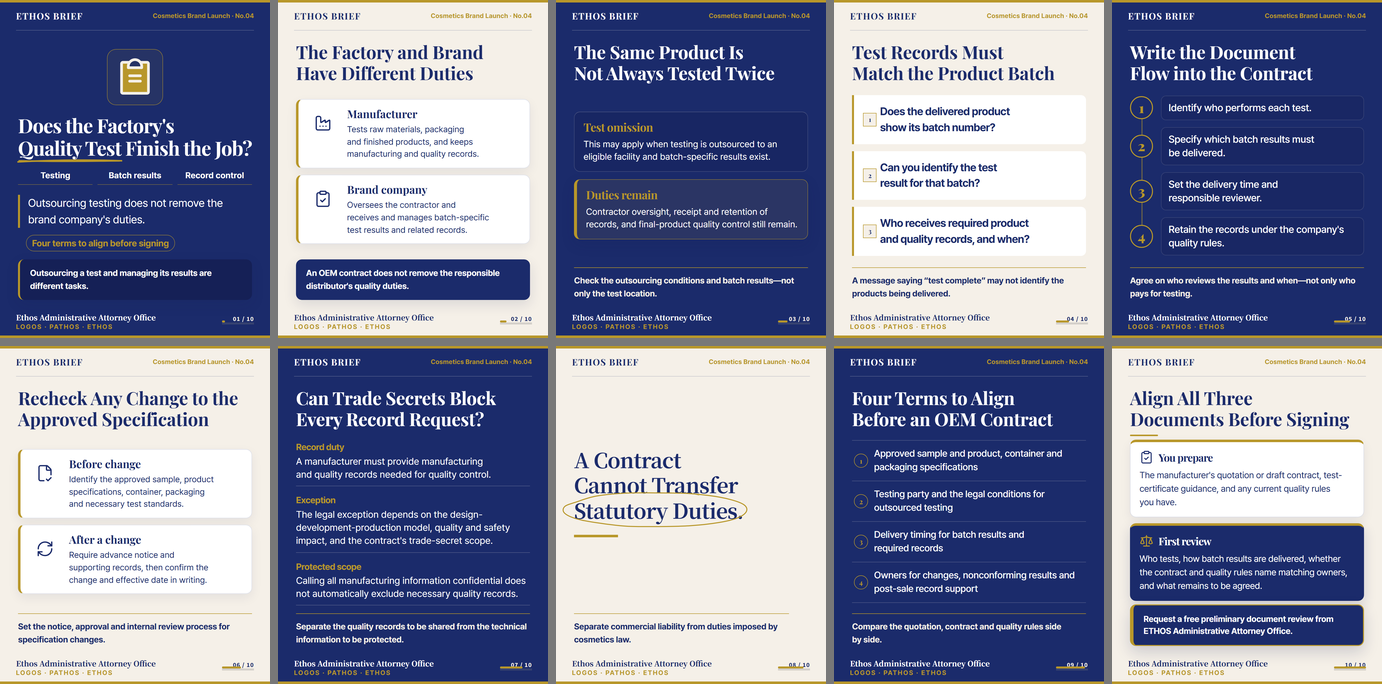
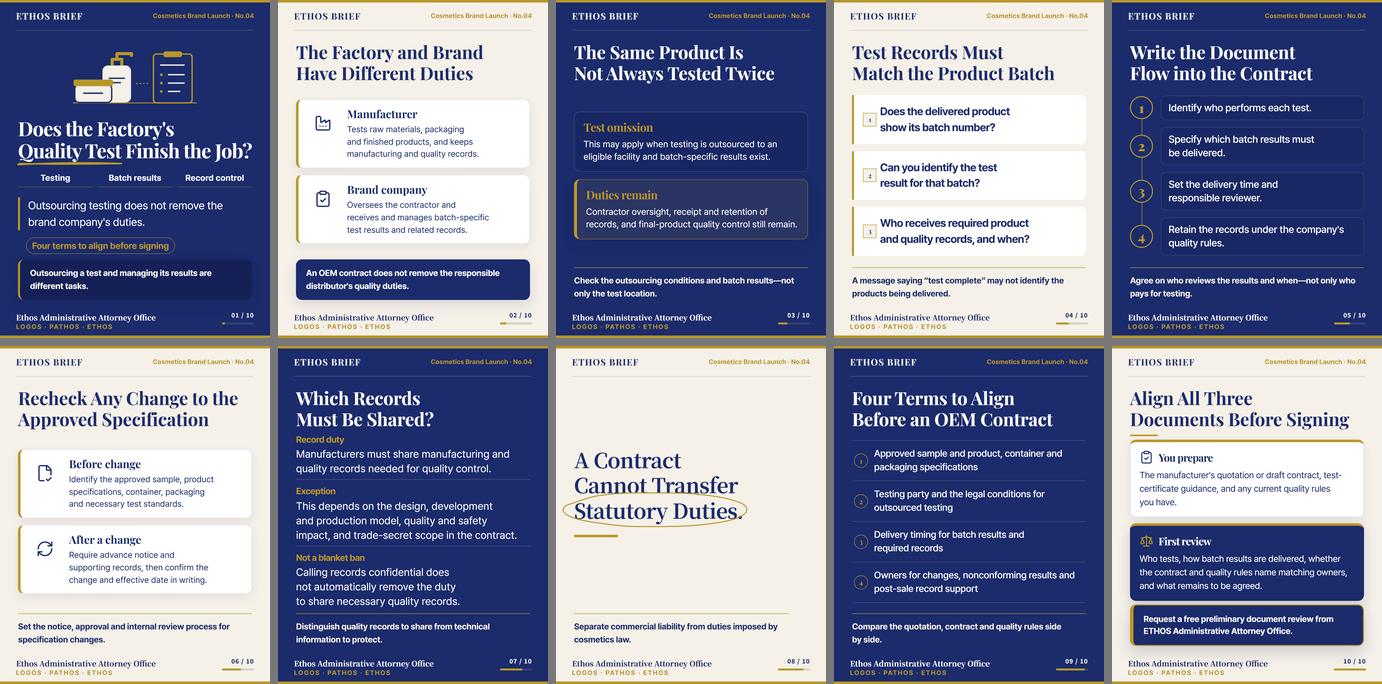
fix(cards): separate progress footer and refine OEM cover and English copy

diff --git a/content/COSMETICS-OEM-04/en/card_01.html b/content/COSMETICS-OEM-04/en/card_01.html
@@ -14,7 +14,22 @@
   <div class="hl" data-frame="line"></div>
   <div class="body">
     <div class="z-title" data-zone="title"></div>
-    <div class="z-main" data-zone="main"><div class="cvb-top"><div class="cvb-obj" data-decor data-focal><svg class="obj" data-asset="phosphor/clipboard-text" aria-hidden="true" focusable="false" xmlns="http://www.w3.org/2000/svg" viewBox="0 0 256 256" fill="currentColor"><path d="M208,48V216a8,8,0,0,1-8,8H56a8,8,0,0,1-8-8V48a8,8,0,0,1,8-8H96a39.83,39.83,0,0,0-8,24v8h80V64a39.83,39.83,0,0,0-8-24h40A8,8,0,0,1,208,48Z" style="fill:var(--obj-fill, var(--ethos-gold))"/><path d="M168,152a8,8,0,0,1-8,8H96a8,8,0,0,1,0-16h64A8,8,0,0,1,168,152Zm-8-40H96a8,8,0,0,0,0,16h64a8,8,0,0,0,0-16Zm56-64V216a16,16,0,0,1-16,16H56a16,16,0,0,1-16-16V48A16,16,0,0,1,56,32H92.26a47.92,47.92,0,0,1,71.48,0H200A16,16,0,0,1,216,48ZM96,64h64a32,32,0,0,0-64,0ZM200,48H173.25A47.93,47.93,0,0,1,176,64v8a8,8,0,0,1-8,8H88a8,8,0,0,1-8-8V64a47.93,47.93,0,0,1,2.75-16H56V216H200Z"/></svg></div></div><p class="cv-title cvb-title" data-role="headline">Does the Factory&#x27;s <span data-annotate="underline">Quality Test</span> Finish the Job?</p><div class="cvb-paths"><span>Testing</span><span>Batch results</span><span>Record control</span></div><div class="cv-wrap cvb-wrap"><p class="cv-lede">Outsourcing testing does not remove the brand company&#x27;s duties.</p><p class="cv-promise" data-role="label">Four terms to align before signing</p></div></div>
+    <div class="z-main" data-zone="main"><div class="cvb-top"><div class="cvb-obj" data-decor data-focal><svg xmlns="http://www.w3.org/2000/svg" viewBox="0 0 330 140" fill="none" data-asset="ethos/cosmetics-oem" aria-hidden="true">
+  <path d="M24 128H306" stroke="var(--ethos-gold)" stroke-width="2"/>
+  <rect x="91" y="43" width="65" height="84" rx="12" fill="var(--ethos-cream)"/>
+  <path d="M113 43V29H135V43M124 29V16H157V23" stroke="var(--ethos-gold)" stroke-width="7" stroke-linejoin="round"/>
+  <path d="M105 72H142M105 82H133" stroke="var(--ethos-navy)" stroke-width="3"/>
+  <rect x="28" y="86" width="84" height="41" rx="10" fill="var(--ethos-cream)" stroke="var(--ethos-navy)" stroke-width="3"/>
+  <rect x="25" y="75" width="90" height="15" rx="4" fill="var(--ethos-gold)"/>
+  <path d="M47 106H92" stroke="var(--ethos-navy)" stroke-width="3"/>
+  <path d="M167 84H197" stroke="var(--ethos-gold)" stroke-width="2" stroke-dasharray="4 4"/>
+  <rect x="207" y="17" width="88" height="111" rx="7" stroke="var(--ethos-gold)" stroke-width="3"/>
+  <rect x="230" y="11" width="42" height="13" rx="4" fill="var(--ethos-gold)"/>
+  <path d="M222 42H278M240 64H278M240 83H278M240 102H268" stroke="var(--ethos-cream)" stroke-width="3"/>
+  <circle cx="225" cy="64" r="3" fill="var(--ethos-gold)"/>
+  <circle cx="225" cy="83" r="3" fill="var(--ethos-gold)"/>
+  <circle cx="225" cy="102" r="3" fill="var(--ethos-gold)"/>
+</svg></div></div><p class="cv-title cvb-title" data-role="headline">Does the Factory&#x27;s <span data-annotate="underline">Quality Test</span> Finish the Job?</p><div class="cvb-paths"><span>Testing</span><span>Batch results</span><span>Record control</span></div><div class="cv-wrap cvb-wrap"><p class="cv-lede">Outsourcing testing does not remove the brand company&#x27;s duties.</p><p class="cv-promise" data-role="label">Four terms to align before signing</p></div></div>
     <div class="z-take" data-zone="take"><div class="take" data-role="takeaway">Outsourcing a test and managing its results are different tasks.</div></div>
   </div>
   <div class="ftr"><div class="org" data-frame="org">Ethos Administrative Attorney Office</div><div class="tagl" data-frame="tagline">LOGOS · PATHOS · ETHOS</div><div class="pg" data-frame="page" aria-hidden="true" data-progress="01 / 10"></div></div>

diff --git a/content/COSMETICS-OEM-04/ko/card_01.html b/content/COSMETICS-OEM-04/ko/card_01.html
@@ -14,7 +14,22 @@
   <div class="hl" data-frame="line"></div>
   <div class="body">
     <div class="z-title" data-zone="title"></div>
-    <div class="z-main" data-zone="main"><div class="cvb-top"><div class="cvb-obj" data-decor data-focal><svg class="obj" data-asset="phosphor/clipboard-text" aria-hidden="true" focusable="false" xmlns="http://www.w3.org/2000/svg" viewBox="0 0 256 256" fill="currentColor"><path d="M208,48V216a8,8,0,0,1-8,8H56a8,8,0,0,1-8-8V48a8,8,0,0,1,8-8H96a39.83,39.83,0,0,0-8,24v8h80V64a39.83,39.83,0,0,0-8-24h40A8,8,0,0,1,208,48Z" style="fill:var(--obj-fill, var(--ethos-gold))"/><path d="M168,152a8,8,0,0,1-8,8H96a8,8,0,0,1,0-16h64A8,8,0,0,1,168,152Zm-8-40H96a8,8,0,0,0,0,16h64a8,8,0,0,0,0-16Zm56-64V216a16,16,0,0,1-16,16H56a16,16,0,0,1-16-16V48A16,16,0,0,1,56,32H92.26a47.92,47.92,0,0,1,71.48,0H200A16,16,0,0,1,216,48ZM96,64h64a32,32,0,0,0-64,0ZM200,48H173.25A47.93,47.93,0,0,1,176,64v8a8,8,0,0,1-8,8H88a8,8,0,0,1-8-8V64a47.93,47.93,0,0,1,2.75-16H56V216H200Z"/></svg></div></div><p class="cv-title cvb-title" data-role="headline">공장이 <span data-annotate="underline">품질검사까지</span> 하면 끝일까요?</p><div class="cvb-paths"><span>검사</span><span>제조번호</span><span>기록 관리</span></div><div class="cv-wrap cvb-wrap"><p class="cv-lede">검사를 맡겨도 브랜드 회사에 남는 일을 확인합니다.</p><p class="cv-promise" data-role="label">계약 전에 맞출 네 가지</p></div></div>
+    <div class="z-main" data-zone="main"><div class="cvb-top"><div class="cvb-obj" data-decor data-focal><svg xmlns="http://www.w3.org/2000/svg" viewBox="0 0 330 140" fill="none" data-asset="ethos/cosmetics-oem" aria-hidden="true">
+  <path d="M24 128H306" stroke="var(--ethos-gold)" stroke-width="2"/>
+  <rect x="91" y="43" width="65" height="84" rx="12" fill="var(--ethos-cream)"/>
+  <path d="M113 43V29H135V43M124 29V16H157V23" stroke="var(--ethos-gold)" stroke-width="7" stroke-linejoin="round"/>
+  <path d="M105 72H142M105 82H133" stroke="var(--ethos-navy)" stroke-width="3"/>
+  <rect x="28" y="86" width="84" height="41" rx="10" fill="var(--ethos-cream)" stroke="var(--ethos-navy)" stroke-width="3"/>
+  <rect x="25" y="75" width="90" height="15" rx="4" fill="var(--ethos-gold)"/>
+  <path d="M47 106H92" stroke="var(--ethos-navy)" stroke-width="3"/>
+  <path d="M167 84H197" stroke="var(--ethos-gold)" stroke-width="2" stroke-dasharray="4 4"/>
+  <rect x="207" y="17" width="88" height="111" rx="7" stroke="var(--ethos-gold)" stroke-width="3"/>
+  <rect x="230" y="11" width="42" height="13" rx="4" fill="var(--ethos-gold)"/>
+  <path d="M222 42H278M240 64H278M240 83H278M240 102H268" stroke="var(--ethos-cream)" stroke-width="3"/>
+  <circle cx="225" cy="64" r="3" fill="var(--ethos-gold)"/>
+  <circle cx="225" cy="83" r="3" fill="var(--ethos-gold)"/>
+  <circle cx="225" cy="102" r="3" fill="var(--ethos-gold)"/>
+</svg></div></div><p class="cv-title cvb-title" data-role="headline">공장이 <span data-annotate="underline">품질검사까지</span> 하면 끝일까요?</p><div class="cvb-paths"><span>검사</span><span>제조번호</span><span>기록 관리</span></div><div class="cv-wrap cvb-wrap"><p class="cv-lede">검사를 맡겨도 브랜드 회사에 남는 일을 확인합니다.</p><p class="cv-promise" data-role="label">계약 전에 맞출 네 가지</p></div></div>
     <div class="z-take" data-zone="take"><div class="take" data-role="takeaway">검사를 맡기는 일과 검사결과를 받아 관리하는 일은 다릅니다.</div></div>
   </div>
   <div class="ftr"><div class="org" data-frame="org">에토스 행정사사무소</div><div class="tagl" data-frame="tagline">LOGOS · PATHOS · ETHOS</div><div class="pg" data-frame="page" aria-hidden="true" data-progress="01 / 10"></div></div>

diff --git a/content/COSMETICS-OEM-04/design.css b/content/COSMETICS-OEM-04/design.css
@@ -7,7 +7,7 @@
 
 /* 표지: 문서 일러스트를 장식이 아니라 첫 시선으로 사용한다. */
 .free[data-card-type="cover"] .cvb-top { justify-content:center; margin:0 0 2px; }
-.free[data-card-type="cover"] .cvb-obj { width:124px; height:124px; padding:12px; border:1px solid rgba(var(--ethos-gold-rgb),.7); border-radius:var(--radius-card); background:rgba(var(--ethos-gold-rgb),.08); }
+.free[data-card-type="cover"] .cvb-obj { width:310px; height:132px; padding:0; border:0; border-radius:0; background:transparent; }
 .free[data-card-type="cover"] .cvb-title { max-width:470px; font-size:45px; line-height:1.16; }
 .free[data-card-type="cover"] .cvb-paths { margin-top:15px; }
 .free[data-card-type="cover"] .cvb-paths span { padding:8px 4px; font-size:17px; border:0; border-bottom:1px solid rgba(var(--ethos-gold-rgb),.55); border-radius:0; background:transparent; }
@@ -40,7 +40,7 @@
 
 /* 영문은 길이가 늘어나는 만큼 표지와 패널을 조금 압축한다. */
 .free.lang-en[data-card-type="cover"] .cvb-title { font-size:39px; line-height:1.14; }
-.free.lang-en[data-card-type="cover"] .cvb-obj { width:112px; height:112px; }
+.free.lang-en[data-card-type="cover"] .cvb-obj { width:290px; height:123px; }
 .free.lang-en[data-card-type="comparison"] .ico-row { padding:15px 17px; }
 
 /* 3장: 조건과 남는 의무를 세로로 대비한다. 긴 법률 문장은 좁은 2열에 넣지 않는다. */
@@ -86,7 +86,8 @@
 /* 넓은 단일 열에서는 영단어를 임의로 분철하지 않는다. 원래의 복합어 하이픈은 보존한다. */
 .card.free.lang-en :is(.z-main,.body-text,.tier-copy,.step-t,.split-t,.doc-t,.bound-t,.take,.close,.cv-lede) { hyphens:none; overflow-wrap:normal; }
 /* 영문 7장: 상자의 안쪽 여백을 읽기 폭으로 돌려주고 본문을 키운다. 카피는 보존. */
-.free.lang-en[data-page="7"] .krows { gap:8px; }
-.free.lang-en[data-page="7"] .krow { padding:9px 0; border:0; border-bottom:1px solid rgba(245,240,232,.24); border-radius:0; background:transparent; box-shadow:none; }
+.free.lang-en[data-page="7"] .krows { gap:6px; }
+.free.lang-en[data-page="7"] .krow { padding:6px 0; border:0; border-bottom:1px solid rgba(245,240,232,.24); border-radius:0; background:transparent; box-shadow:none; }
 .free.lang-en[data-page="7"] .krow-k { font-family:"Pretendard","ETHOS Sans"; font-size:18px; line-height:1.25; font-weight:700; }
-.free.lang-en[data-page="7"] .krow-t { font-size:19px; line-height:1.38; }
+.free.lang-en[data-page="7"] .krow-t { font-size:21px; line-height:1.38; }
+.free.lang-en[data-page="7"] .krow:last-child { border-bottom:0; }

diff --git a/content/COSMETICS-OEM-04/en/card_07.html b/content/COSMETICS-OEM-04/en/card_07.html
@@ -13,9 +13,9 @@
   <div class="hdr"><span class="wm" data-frame="wordmark">ETHOS BRIEF</span><span class="sec" data-frame="section">Cosmetics Brand Launch · No.04</span></div>
   <div class="hl" data-frame="line"></div>
   <div class="body">
-    <div class="z-title" data-zone="title"><h2 class="h2" data-role="headline">Can Trade Secrets Block Every Record Request?</h2></div>
-    <div class="z-main" data-zone="main"><div class="krows stack" data-focal><div class="krow"><div class="krow-k">Record duty</div><div class="krow-t">A manufacturer must provide manufacturing and quality records needed for quality control.</div></div><div class="krow"><div class="krow-k">Exception</div><div class="krow-t">The legal exception depends on the design-development-production model, quality and safety impact, and the contract&#x27;s trade-secret scope.</div></div><div class="krow"><div class="krow-k">Protected scope</div><div class="krow-t">Calling all manufacturing information confidential does not automatically exclude necessary quality records.</div></div></div></div>
-    <div class="z-take" data-zone="take"><div class="close" data-role="takeaway">Separate the quality records to be shared from the technical information to be protected.</div></div>
+    <div class="z-title" data-zone="title"><h2 class="h2" data-role="headline">Which Records Must Be Shared?</h2></div>
+    <div class="z-main" data-zone="main"><div class="krows stack" data-focal><div class="krow"><div class="krow-k">Record duty</div><div class="krow-t">Manufacturers must share manufacturing and quality records needed for quality control.</div></div><div class="krow"><div class="krow-k">Exception</div><div class="krow-t">This depends on the design, development and production model, quality and safety impact, and trade-secret scope in the contract.</div></div><div class="krow"><div class="krow-k">Not a blanket ban</div><div class="krow-t">Calling records confidential does not automatically remove the duty to share necessary quality records.</div></div></div></div>
+    <div class="z-take" data-zone="take"><div class="close" data-role="takeaway">Distinguish quality records to share from technical information to protect.</div></div>
   </div>
   <div class="ftr"><div class="org" data-frame="org">Ethos Administrative Attorney Office</div><div class="tagl" data-frame="tagline">LOGOS · PATHOS · ETHOS</div><div class="pg" data-frame="page" aria-hidden="true" data-progress="07 / 10"></div></div>
   <div class="gold-bottom" data-frame="gold-bottom"></div>

diff --git a/templates/base.css b/templates/base.css
@@ -70,8 +70,8 @@ body { background:transparent; }
 .family-social-native .take { box-shadow:0 9px 26px rgba(21,32,86,.12); }
 
 /* ---- 넘김 표시: 페이지 칸(.pg) 안에 진행 막대와 "03 / 10". 칸 자체의 위치·크기는 그대로 둔다 ---- */
-.pg[data-progress] { opacity:1; box-sizing:border-box; border-bottom:4px solid rgba(127,127,127,.28); }
-.pg[data-progress]::before { content:attr(data-progress); position:absolute; right:0; top:-14px; font-family:"ETHOS Sans"; font-weight:700; font-size:11px; letter-spacing:1px; line-height:12px; white-space:nowrap; }
+.pg[data-progress] { opacity:1; box-sizing:border-box; height:4px; border:0; border-radius:2px; background:rgba(127,127,127,.28); }
+.pg[data-progress]::before { content:attr(data-progress); position:absolute; right:0; top:-22px; font-family:"ETHOS Sans"; font-weight:700; font-size:12px; letter-spacing:1px; line-height:14px; white-space:nowrap; }
 .navy .pg[data-progress]::before { color:#F5F0E8; }
 .cream .pg[data-progress]::before { color:var(--ethos-navy); }
 .pg[data-progress]::after { content:""; position:absolute; left:0; bottom:0; width:var(--progress, 0%); height:4px; border-radius:2px; background:var(--ethos-gold); }

diff --git a/tests/test_layout_balance.py b/tests/test_layout_balance.py
@@ -63,7 +63,37 @@ class LayoutBalanceTests(unittest.TestCase):
             sizes = page.locator('.krow-t').evaluate_all(
                 '(nodes) => nodes.map(n => parseFloat(getComputedStyle(n).fontSize))')
             self.assertEqual(len(sizes), 3)
-            self.assertTrue(all(size >= 19 for size in sizes), sizes)
+            self.assertTrue(all(size >= 21 for size in sizes), sizes)
             self.assertTrue(main.evaluate('(n) => n.scrollHeight <= n.clientHeight + 1'))
+        finally:
+            page.close()
+
+    def test_oem_footer_number_and_progress_have_separate_rows(self):
+        root = pathlib.Path(__file__).resolve().parents[1]
+        page = self.browser.new_page()
+        try:
+            for lang in ('ko', 'en'):
+                for number in range(1, 11):
+                    with self.subTest(lang=lang, page=number):
+                        page.goto((root / f'content/COSMETICS-OEM-04/{lang}/card_{number:02d}.html').as_uri())
+                        page.evaluate('document.fonts.ready')
+                        values = page.locator('.pg[data-progress]').evaluate('''n => {
+                            const track = n.getBoundingClientRect();
+                            const label = getComputedStyle(n, '::before');
+                            const fill = getComputedStyle(n, '::after');
+                            return {
+                                gap: -(parseFloat(label.top) + parseFloat(label.lineHeight)),
+                                height: track.height,
+                                fillHeight: parseFloat(fill.height),
+                                fillBottom: parseFloat(fill.bottom),
+                                fraction: parseFloat(fill.width) / track.width,
+                                content: label.content
+                            };
+                        }''')
+                        self.assertGreaterEqual(values['gap'], 8)
+                        self.assertEqual(values['height'], values['fillHeight'])
+                        self.assertEqual(values['fillBottom'], 0)
+                        self.assertAlmostEqual(values['fraction'], number / 10, places=2)
+                        self.assertIn(f'{number:02d} / 10', values['content'])
         finally:
             page.close()

diff --git a/tests/test_auto_design.py b/tests/test_auto_design.py
@@ -49,6 +49,24 @@ class AutoDesignTest(unittest.TestCase):
     def test_cover_uses_object_art_when_available(self):
         cover = {"page": 1, "type": "cover", "bg": "navy", "headline": "h", "body": ["b"], "art": ["gavel"], "takeaway": "t"}
         self.assertIn("phosphor/gavel", auto_design.build(cover, data([cover])))
+        cover['art'] = ['cosmetics-oem']
+        for language in ('ko', 'en'):
+            html = auto_design.build(cover, data([cover], language))
+            self.assertIn('data-asset="ethos/cosmetics-oem"', html)
+            self.assertEqual(copy_lint.copy_lock(cover, html), [])
+
+    def test_original_cover_asset_requires_its_real_provenance(self):
+        import tempfile
+        cover = {"page": 1, "type": "cover", "art": ["cosmetics-oem"]}
+        with tempfile.TemporaryDirectory() as directory:
+            folder = pathlib.Path(directory)
+            report = copy_lint.Report()
+            copy_lint.lint_assets(folder, {'ko': data([cover])}, report)
+            self.assertTrue(report.findings)
+            (folder / 'assets.md').write_text('assets/illustrations/objects/cosmetics-oem.svg', encoding='utf-8')
+            report = copy_lint.Report()
+            copy_lint.lint_assets(folder, {'ko': data([cover])}, report)
+            self.assertFalse(report.findings)
 
     def test_numbered_checklist_and_fit_state_are_explicit(self):
         card = {"page": 1, "type": "checklist", "layout": "numbered", "bg": "navy",

diff --git a/scripts/copy_lint.py b/scripts/copy_lint.py
@@ -736,6 +736,10 @@ def lint_assets(folder, loaded, report):
         report.add("warn", "asset-unrecorded", "assets.md", f"카드에 쓴 일러스트 '{asset}'의 출처 기록이 없습니다.", "assets.md 표에 한 줄 추가하고 EXTERNAL ASSETS: Yes로 두세요.")
     def recorded(name):
         path = build_cards.icon_path(name)
+        if not path:
+            original = ROOT / "assets" / "illustrations" / "objects" / f"{name}.svg"
+            if original.is_file():
+                return f"objects/{name}.svg" in text
         family = path.parent.name if path else "lucide"
         return f"{family}/{name}.svg" in text
 

diff --git a/scripts/auto_design.py b/scripts/auto_design.py
@@ -26,6 +26,7 @@ from build_cards import MAX_NOBR, keep_dot_chains, esc, icon_path, icon_svg, ite
 OBJ_DIR = ROOT / "assets" / "illustrations" / "objects"
 # 아이콘 이름 → 물건 그림(Phosphor). 표지·인용 카드의 큰 그림으로 쓴다.
 OBJECT_FOR = {
+    "cosmetics-oem": "cosmetics-oem",
     "gavel": "gavel", "scale": "scales", "scales": "scales", "landmark": "bank", "receipt": "receipt",
     "file-text": "file-text", "calendar": "calendar-x", "calendar-x": "calendar-x", "calendar-clock": "calendar-x",
     "truck": "truck", "store": "storefront", "building-2": "building-office", "briefcase": "briefcase",

diff --git a/content/COSMETICS-OEM-04/review.md b/content/COSMETICS-OEM-04/review.md
@@ -1,5 +1,17 @@
 # COSMETICS-OEM-04 디자인 검수 — 2026-10-18
 
+## Latest revision — footer, cover and English card 7
+
+This section supersedes the earlier cover and card-7 observations below. The earlier review missed a footer defect; automatic QA was not evidence of visual completion.
+
+- Footer: the number has an 8 CSS-pixel gap above a real 4px track. Filled and unfilled sections now share the same baseline. Browser tests inspect pseudo-element geometry for all 20 cards, including 01 and 10.
+- Cover: original pump bottle and cream jar connected to a record replace the generic clipboard badge. Both covers retain the approved copy and brand palette.
+- English card 7: headline shortened; plain-language verbs; body increased from 19px to 21px. QA counts 400 characters / 66 words versus 444 / 67 previously. Manufacturing and quality records, the design/development/production model, quality and safety impact, contractual trade-secret scope and the non-blanket confidentiality boundary remain. No external legal verification or new factual claim was added in this revision.
+- Both language renders pass. Card 7 still carries a density advisory: it is a legal explanation, not a low-text promotional card. The advisory thresholds were not relaxed.
+- Revised English wording uses the copy-editing clarity pass; Korean published copy is unchanged. Publication approval remains pending.
+- Final local checks: all 20 cards have fitScale=1.00 and fitOverflow=0; 22 stress cases pass; visual regression passes with unchanged tolerances. Five footer baselines were visually checked and refreshed. Bilingual structure/source trace and guideline routes pass. Remote CI is checked separately after push.
+- Full test suite: 184 passed, four dependency deprecation warnings, no failures or skips. Copy lint: zero warnings / 11 advisory information items. Distribution and asset provenance validation pass.
+
 국문·영문 각 10장 구현, 실제 PNG 출력, 개별 이미지와 축소 시트 검수 완료. 아랍어는 제외. 사용자 발행 승인은 별도다. 이전의 실제 PNG 확인 없이 제시한 75점·90점대 평가는 폐기한다.
 
 ## 결과

diff --git a/content/COSMETICS-OEM-04/out/en/qa-report.md b/content/COSMETICS-OEM-04/out/en/qa-report.md
@@ -4,13 +4,13 @@
 
 | 카드 | 유형 | 글자수 | 단어수 | 본문 채움 | 하단 여백 | 결과 |
 |---|---|---:|---:|---:|---:|---|
-| card_01.html | cover | 211 | 38 | 0.93 | 26 | PASS |
+| card_01.html | cover | 211 | 38 | 0.95 | 26 | PASS |
 | card_02.html | comparison | 299 | 47 | 0.82 | 26 | PASS |
 | card_03.html | concept | 304 | 51 | 0.69 | 26 | PASS |
 | card_04.html | checklist | 237 | 45 | 0.88 | 26 | PASS |
 | card_05.html | process | 254 | 51 | 0.91 | 26 | PASS |
 | card_06.html | comparison | 315 | 50 | 0.79 | 26 | PASS |
-| card_07.html | concept | 444 | 67 | 0.92 | 26 | PASS |
+| card_07.html | concept | 400 | 66 | 0.98 | 26 | PASS |
 | card_08.html | rest | 98 | 16 | 0.4 | 26 | PASS |
 | card_09.html | checklist | 311 | 52 | 0.88 | 26 | PASS |
 | card_10.html | cta | 345 | 58 | 0.96 | 26 | PASS |
@@ -19,8 +19,8 @@
 - main-zone 블록 4 > 권장 3
 
 ### card_07.html 권고
-- chars 444 > 강한 경고 340 (문장 압축 또는 카드 분리 검토)
-- words 67 > 권고 60 (영문 호흡과 모바일 가독성 확인)
+- chars 400 > 권고 340 (문장 압축 또는 카드 분리 검토)
+- words 66 > 권고 60 (영문 호흡과 모바일 가독성 확인)
 
 ### card_08.html 권고
 - content-balance: 본문 묶음 중심 편차 -20% (위 0px / 아래 177px). 문자 정렬이 아니라 묶음 위치를 확인하세요. 의도한 비대칭은 review.md에 기록합니다.

diff --git a/state/design-feedback.md b/state/design-feedback.md
@@ -4,6 +4,7 @@
 
 | 날짜 | 피드백 원문 | 반영 |
 |---|---|---|
+| 2026-10-18 | "그럼 말한 세 문제 한 번에 다 고쳐. 숫자·진행바 겹침 없애고 표지랑 영문 7장까지 개선해서 실제 카드 다시 보여줘. 테스트·CI까지 확인하고 커밋 푸시해." | 공통 푸터 숫자·막대 8px 분리 및 회귀 검사, 화장품 용기 전용 표지, 영문 7장 문장 정리와 21px 본문 |
 | 2026-10-06 | "그 다음에 카드뉴스 개선점은 없어? 디자인이라던가 여백 및 중앙 배치 문제라던가... 그것도 봐주고 우선 방금 보여준 개선들 진행하고 커밋 푸쉬해줘" | 프리셋 A 표지 그림 중앙 배치, 본문 고유 높이·일정 간격, 실제 글자·그림의 contentBalance 검사. 글자 가운데 정렬과 묶음 중앙 배치를 구분 |
 | 2026-10-06 | "아 그리고 하나 더. 글 쓸때에는 확실한건 확실하게 맞다고 하고 이것도 맞고 저것도 맞아요하는식의 구성은 지양하게도 설정해줘" | definitive-style v1.1·프로젝트 진입 지침·윤문 프롬프트에 확인된 결론 우선, 근거 없는 양시론 지양. 실제 조건·재량은 보존 |
 | 2026-10-06 | "빈칸이 너무 많네 카드에.... 이거 왜 그런거야" | 세로형 본문 자동 맞춤, 번호 칸 124px → 36px, 가이드 "빈칸을 글자로 채운다" |
